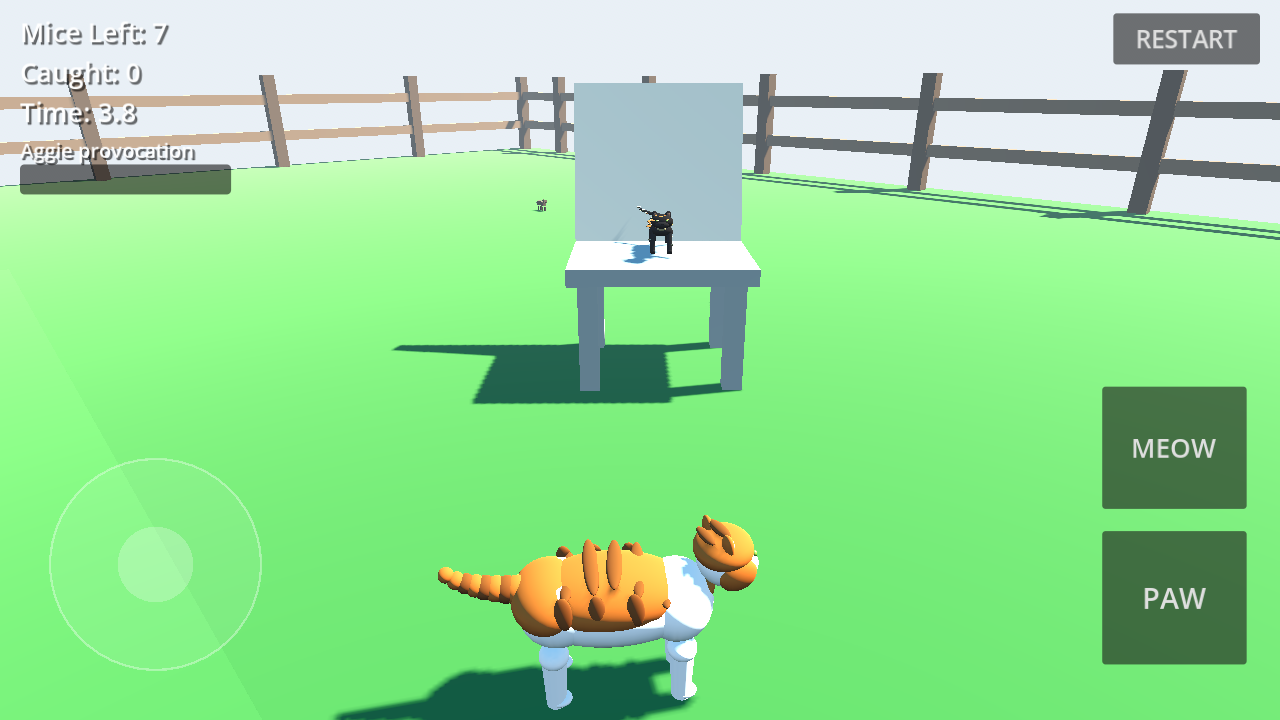
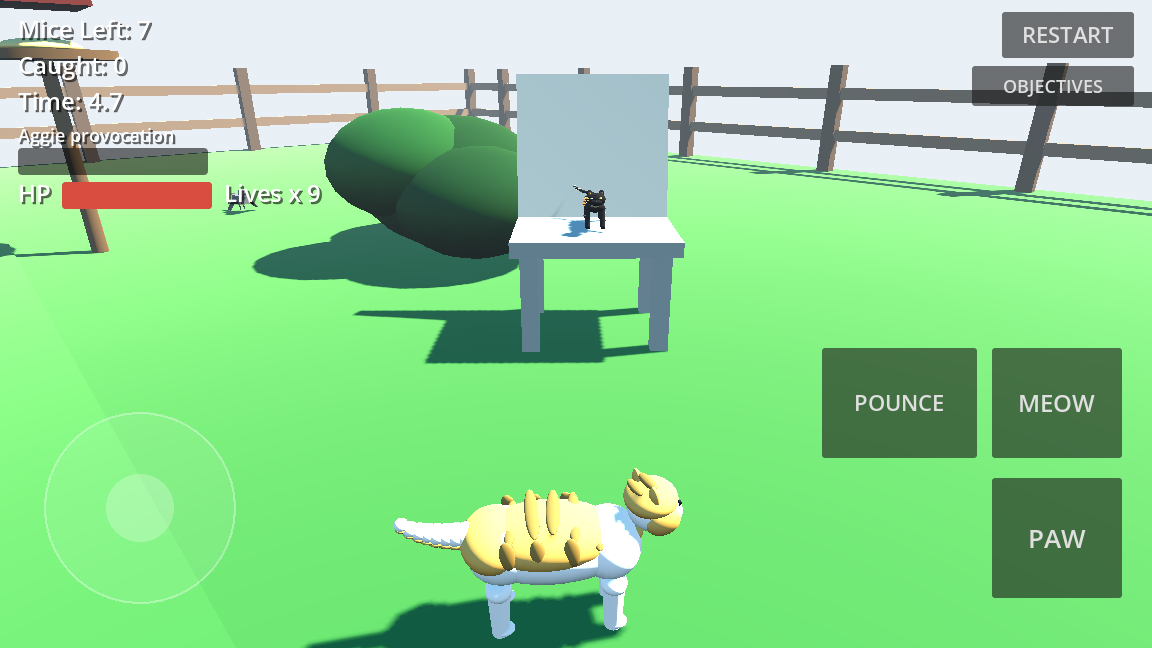
Willie spec revert: ruled palette #E8AF54, dark eyes, white tail with ginger underside + spec-lock tests
Daniel ruling 2026-10-25: the photo-tuned values (#C97020/#975417,
green-gold eyes, ringed ginger tail) were a spec defect. Reverts
Willie to his recorded spec and pins the constants with SPEC LOCK
assertions in tests/smoke.gd. Aggie: calico label only, values
untouched. Adds standing willie_rear shot.

diff --git a/godot3d/cat_kit/README.md b/godot3d/cat_kit/README.md
@@ -69,27 +69,31 @@ below.
 
 ### Willie — the big plush boy (player cat, scale 0.35)
 
-Daniel's boy, and the game's player character. Photo truth (from
-`reference/reference-willie-basket.jpg` and
-`reference/reference-willie-table.jpg`; these override the v0.1
-hand-drawn sprite where they differ): pure white face blaze,
-muzzle, chest, belly, legs and paws; **rich orange tabby** — a cap
-wrapping the top of the head around the ears and down the sides of
-the cheeks, a **large saddle** over the whole back and upper sides,
-and a substantially ginger, ringed tail; green-gold eyes; pink
-nose.
+Daniel's boy, and the game's player character. **Canonical
+appearance is Daniel's ruled spec (director's call, 2026-10-25),
+which supersedes the earlier photo-tuned pass** (the photos in
+`reference/` remain the build and pattern reference): pure white
+face blaze, muzzle, chest, belly, legs and paws; **ginger tabby**
+— a cap wrapping the top of the head around the ears and down the
+sides of the cheeks, a **large saddle** over the whole back and
+upper sides, and a **white tail with a ginger underside** (no
+rings); **dark eyes**; pink nose.
 
-- Palette: coat `#FFFFFF`; ginger `#C97020` (inside the
-  #C26D1E–#CD7A2A band Daniel specified — "definitely darker
-  orange" than the v0.1 art's #E8AF54); tabby striping
-  `ginger_dark #975417` — a faint, darker banding laid as thin
-  flattened shells across the saddle, two on the cap, and
-  alternating into the tail rings; eyes `#8A9A3B`; nose `#D98C7A`.
-- Tonemapping compensation: raw photo medians sample muted
-  (#A68041-ish) under indoor light and shadow, and the game's ACES
-  tonemapper + midday sun desaturate further (the old #E8AF54 build
-  rendered pale gold). The albedo is therefore set rich and tuned
-  by eye against the photos in the standing `willie_closeup` shot.
+- Palette (SPEC-LOCKED by Daniel's 2026-10-25 ruling; the smoke
+  test asserts these constants): coat `#FFFFFF`; ginger `#E8AF54`
+  — the colour Daniel specified; tabby striping `ginger_dark
+  #AE833C` — derived from `#E8AF54` by the same per-channel
+  factors (x0.75, x0.75, x0.72) the earlier pass applied to its
+  base, laid as thin flattened shells across the saddle and two
+  on the cap; tail white with a ginger underside shell under each
+  segment; eyes dark `#1A1412`; nose `#D98C7A`.
+- History: an earlier pass photo-tuned the albedo richer
+  (`#C97020` / `#975417`, green-gold `#8A9A3B` eyes, ringed tail)
+  as tonemapping compensation. Daniel ruled that a spec defect
+  (2026-10-25): his recorded values above are canonical even
+  where the render reads lighter. Do not "fix" the palette back
+  toward the photos — the spec-lock assertions in `tests/smoke.gd`
+  fail the build if they drift.
 - Build: **plush** — thick torso (0.44 unit wide), full chest and
   haunches, legs a touch shorter relative to the body, tail 1.3×
   thick. Scale **0.35**, up from the GTA stray's 0.32: he is a big
@@ -101,19 +105,20 @@ nose.
   Aggie's attack trigger (below). Behaviour lands in the later GTA
   slices; this kit carries the definition.
 
-### Aggie — the wiry tortie (NPC, scale 0.25)
+### Aggie — the wiry calico (NPC, scale 0.25)
 
-Willie's much smaller sister — "chill but vicious". Daniel calls
-her a calico; the photos (`reference/reference-aggie-drawer.jpg`,
-`reference/reference-aggie-plant.jpg`) show a **dark
-tortoiseshell**: warm black-brown base with irregular orange and
-cream mottling everywhere, a mostly dark face with orange mottling
-and a cream/orange throat and chest, a dark tail with orange
-running through it, green-gold eyes like his.
+Willie's much smaller sister — "chill but vicious". A **dark
+calico** (Daniel's recorded word for her coat; photos in
+`reference/reference-aggie-drawer.jpg` and
+`reference/reference-aggie-plant.jpg`): warm black-brown base with
+irregular orange and cream mottling everywhere, a mostly dark
+face with orange mottling and a cream/orange throat and chest, a
+dark tail with orange running through it, green-gold eyes (hers
+stay green-gold — the dark-eye ruling is Willie's).
 
 - Palette: base `#241C17` (photo median); mottle orange `#B06E2C`;
   mottle cream `#BFA87A`; eyes `#8A9A3B`; nose near-black brown.
-- Tortie technique: a **seeded scatter** of small flattened
+- Calico technique: a **seeded scatter** of small flattened
   ellipsoid shells in the two tones, hugging the torso (denser),
   head, legs and tail over the dark base — irregular sizes,
   rotations and placement driven by `palette.mottle.seed`
